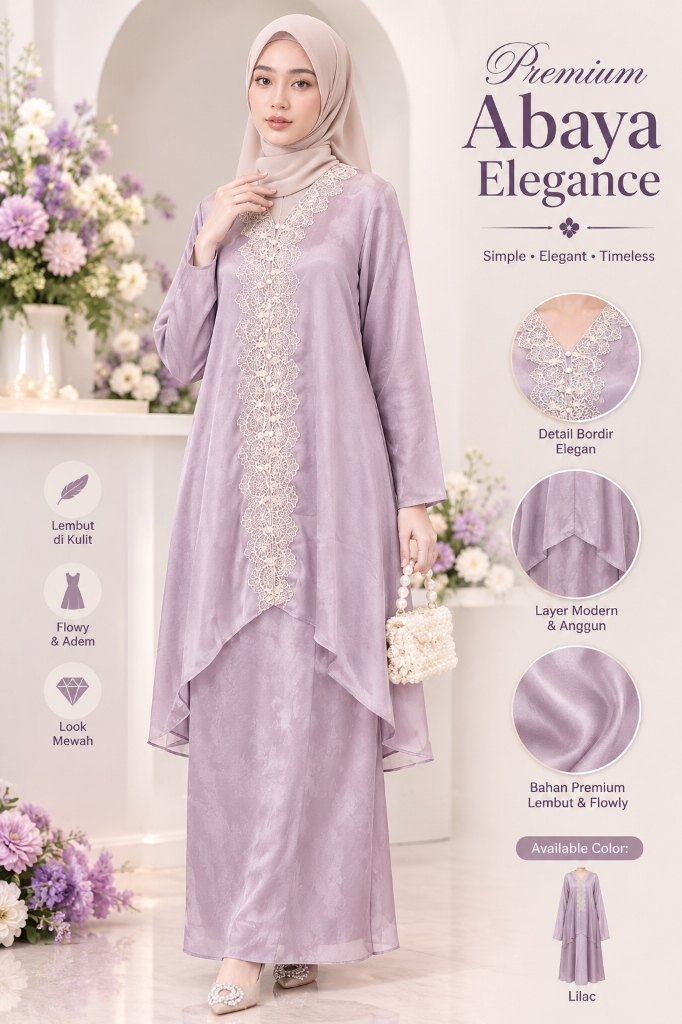
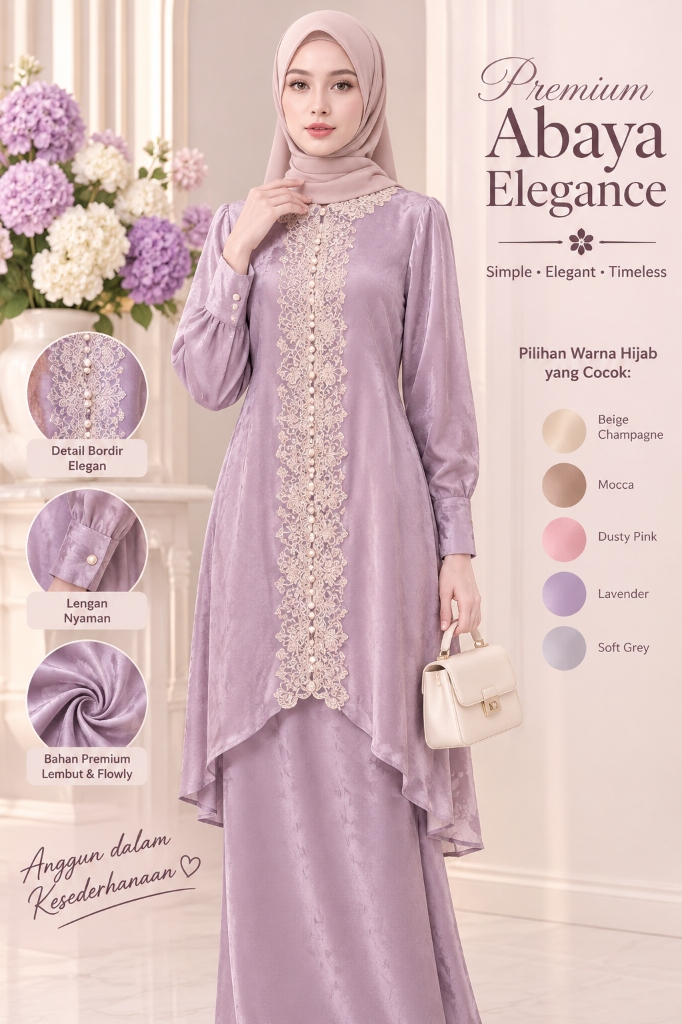
fix(catalog): update photo & styling for One Set Abaya Lilac (asc-ab-06) with high quality version

diff --git a/src/data/asc-products.ts b/src/data/asc-products.ts
@@ -337,11 +337,11 @@ export const ASC_PRODUCTS: ASCProduct[] = [
     badge: 'One Set Abaya (4.9★)',
     isLalaPick: true,
     description:
-      'One set abaya tunik dan rok panjang bergaya modern luxury (Simple • Elegant • Timeless) yang sangat anggun dan memesona untuk hari raya Lebaran, pesta, kondangan, maupun acara keluarga. Menampilkan atasan tunik berlayer pointed asimetris yang flowy dan memberi siluet ramping, dipercantik dengan bordir lace bunga putih/krem mewah di sepanjang kerah V-neckline hingga dada depan. Menggunakan bahan jacquard silk premium yang super lembut di kulit, adem, bertekstur berkilau halus, dan jatuh sangat anggun. Sudah termasuk satu set atasan tunik dan rok maxi senada. Tersedia dalam ukuran M dan L dengan 8 pilihan warna elegan: White, Lilac, Latte, Black, Light Purple, Navy, Nude Pink, dan Denim Blue.',
+      'One set abaya tunik dan rok panjang bergaya modern luxury (Simple • Elegant • Timeless) yang memancarkan pesona "Anggun dalam Kesederhanaan ♡", sangat memesona untuk hari raya Lebaran, pesta, kondangan, maupun acara keluarga. Menampilkan atasan tunik berlayer pointed asimetris yang flowy dan memberi siluet ramping, dipercantik dengan bordir lace bunga putih/krem mewah berhias deretan kancing mutiara di sepanjang dada depan serta manset lengan kancing mutiara yang nyaman. Menggunakan bahan jacquard silk premium yang super lembut di kulit, adem, berkilau halus, dan jatuh sangat flowy. Sudah termasuk satu set atasan tunik dan rok maxi senada. Sangat serasi dipadukan hijab warna Beige Champagne, Mocca, Dusty Pink, Lavender, atau Soft Grey.',
     fabric: 'Jacquard Silk Premium Shimmer mix Bordir Lace Mewah (Lembut di Kulit, Flowy, Adem & Tidak Menerawang)',
     sizes: 'M, L',
     lalaNote:
-      'One set abaya tunik & rok warna Lilac ini beneran definisi anggun dan mewah untuk Lebaran! Potongan layer asimetrisnya bikin kelihatan tinggi dan langsing, ditambah bordir renda bunganya halus banget. Bahannya silky adem dan jatuh flowy seharian!',
+      'One set abaya tunik & rok warna Lilac ini beneran definisi Anggun dalam Kesederhanaan ♡ untuk Lebaran! Potongan layer asimetrisnya bikin kelihatan tinggi dan langsing, ditambah bordir renda bunganya halus banget. Paling cantik dipadukan hijab warna Beige Champagne, Mocca, atau Lavender!',
     platforms: ['shopee'],
     marketplaceName: 'Shopee',
     affiliateUrl: 'https://s.shopee.co.id/7AfRzuYHuS',
